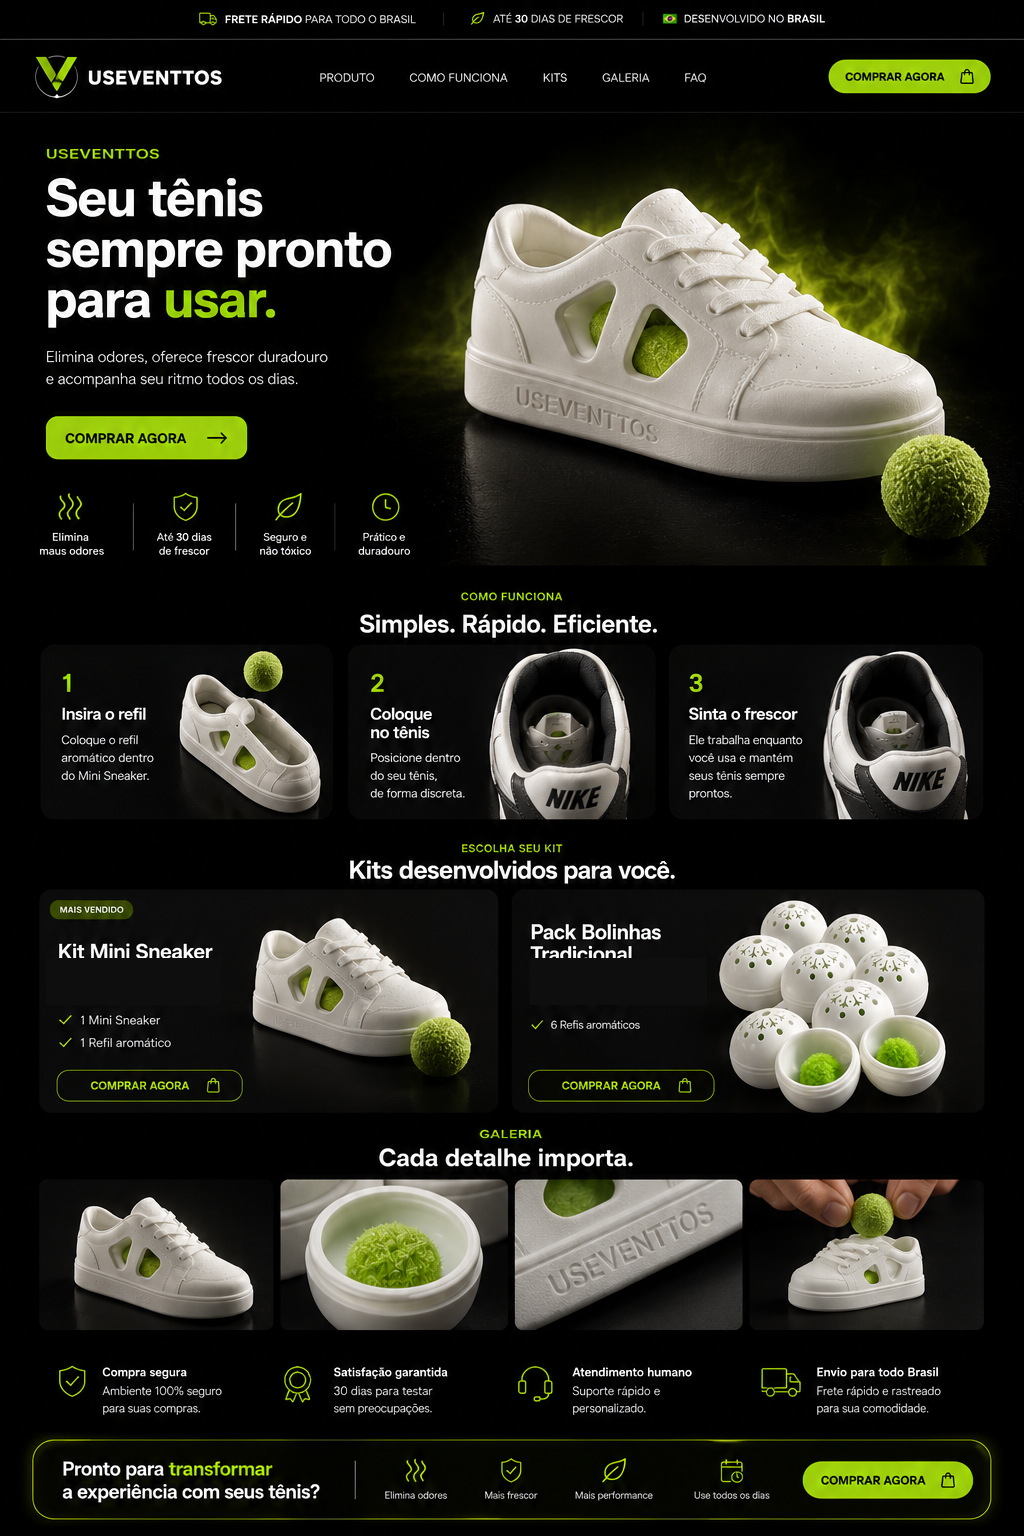
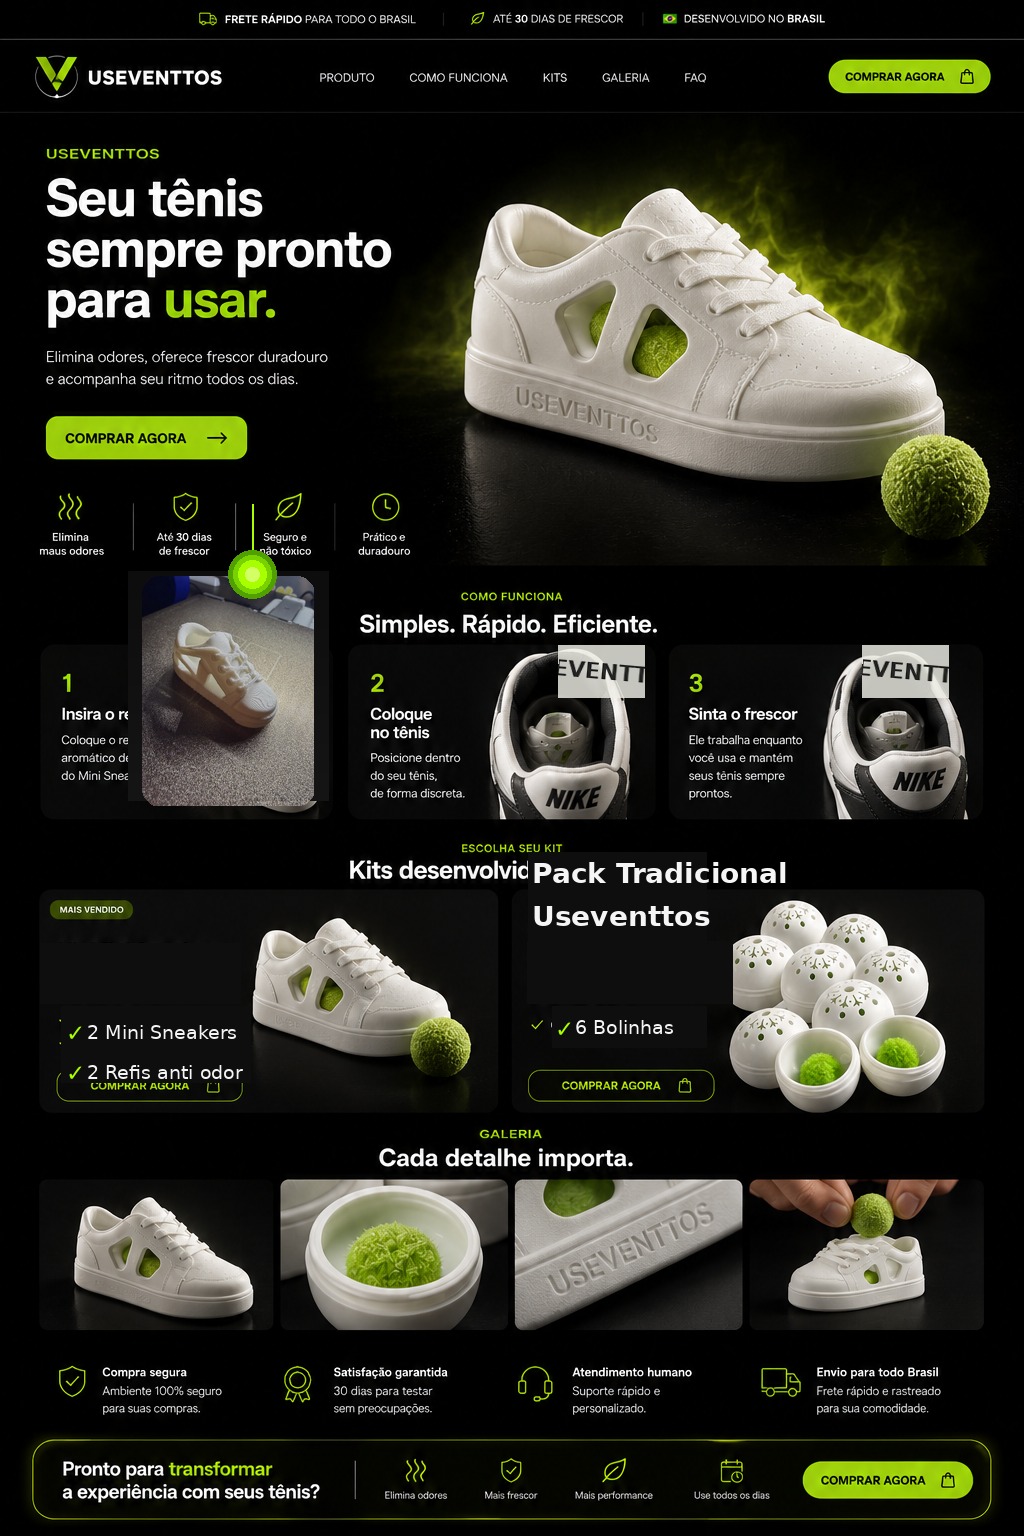
Correção de texto

diff --git a/README.md b/README.md
@@ -1,10 +1,11 @@
-# Useventtos - Popup V5 Final
+# Useventtos - V6 Ajustes Kits
 
-Ajustes:
-- X corrigido para fechar
-- Barra movida para baixo da frase
-- Valores removidos da página principal
-- Botões vinculados à Shopee
-- Popup com fumaça, partículas e bolinhas animadas
+Ajustes aplicados:
+- Removidas faixas/valores dos kits
+- Kit Mini Sneaker: 2 Mini Sneakers + 2 Refis anti odor
+- Pack Tradicional Useventtos: 6 Bolinhas
+- Nike substituído por Useventtos nas imagens de uso
+- Card "Insira o refil" com protótipo e bolinha caindo
+- Popup V5 mantido
 
 Suba todos os arquivos na raiz do GitHub.